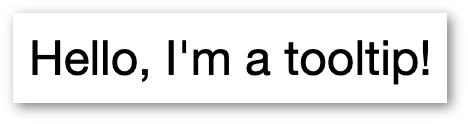
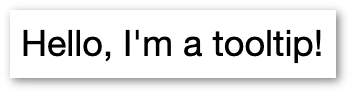
Readme

Changed region(s): [[0.0625, 0.2979, 0.9375, 0.7021]]

diff --git a/README.md b/README.md
@@ -2,7 +2,7 @@
 
 Simple tooltips on hover. Compatible with modern browsers only (ES6+).
 
-<img src="preview.png" width="234" height="62">
+<img src="preview.png" width="176" height="47">
 
 ## Usage
 
